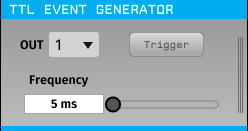
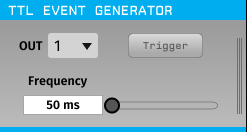
Fix triggered event code and update editor images

diff --git a/source/Tutorials/How-To-Make-Your-Own-Plugin.rst b/source/Tutorials/How-To-Make-Your-Own-Plugin.rst
@@ -512,9 +512,9 @@ Finally, we need to update our process method to make use of these parameters:
                                                          getTimestamp(0), 
                                                          &ttlData, 
                                                          sizeof(uint8), 
-                                                         0);
+                                                         outputBit);
 
-         addEvent(eventChannel, event, i);
+         addEvent(eventChannel, event, 0);
 
          shouldTriggerEvent = false;
          eventWasTriggered = true;
@@ -528,7 +528,8 @@ Finally, we need to update our process method to make use of these parameters:
          if (eventWasTriggered)
             triggeredEventCounter++;
 
-         if (triggeredEventCounter == eventIntervalSamples)
+         // Turn off manually triggered event after selected interval
+         if (triggeredEventCounter == eventIntervalInSamples)
          {
             uint8 ttlData = 0;
 
@@ -536,11 +537,12 @@ Finally, we need to update our process method to make use of these parameters:
                                                          getTimestamp(0) + i, 
                                                          &ttlData, 
                                                          sizeof(uint8), 
-                                                         0);
+                                                         outputBit);
 
             addEvent(eventChannel, event, i);
 
             eventWasTriggered = false;
+            triggeredEventCounter = 0;
          }
 
          if (counter == eventIntervalInSamples)
@@ -554,13 +556,17 @@ Finally, we need to update our process method to make use of these parameters:
                                                          getTimestamp(0) + i, 
                                                          &ttlData, 
                                                          sizeof(uint8), 
-                                                         0);
+                                                         outputBit);
 
             addEvent(eventChannel, event, i);
 
             counter = 0;
 
          }
+
+         // reset counter to 0 if it goes out of bounds 
+         if (counter > eventIntervalInSamples)
+            counter = 0;
       }
    }
 
